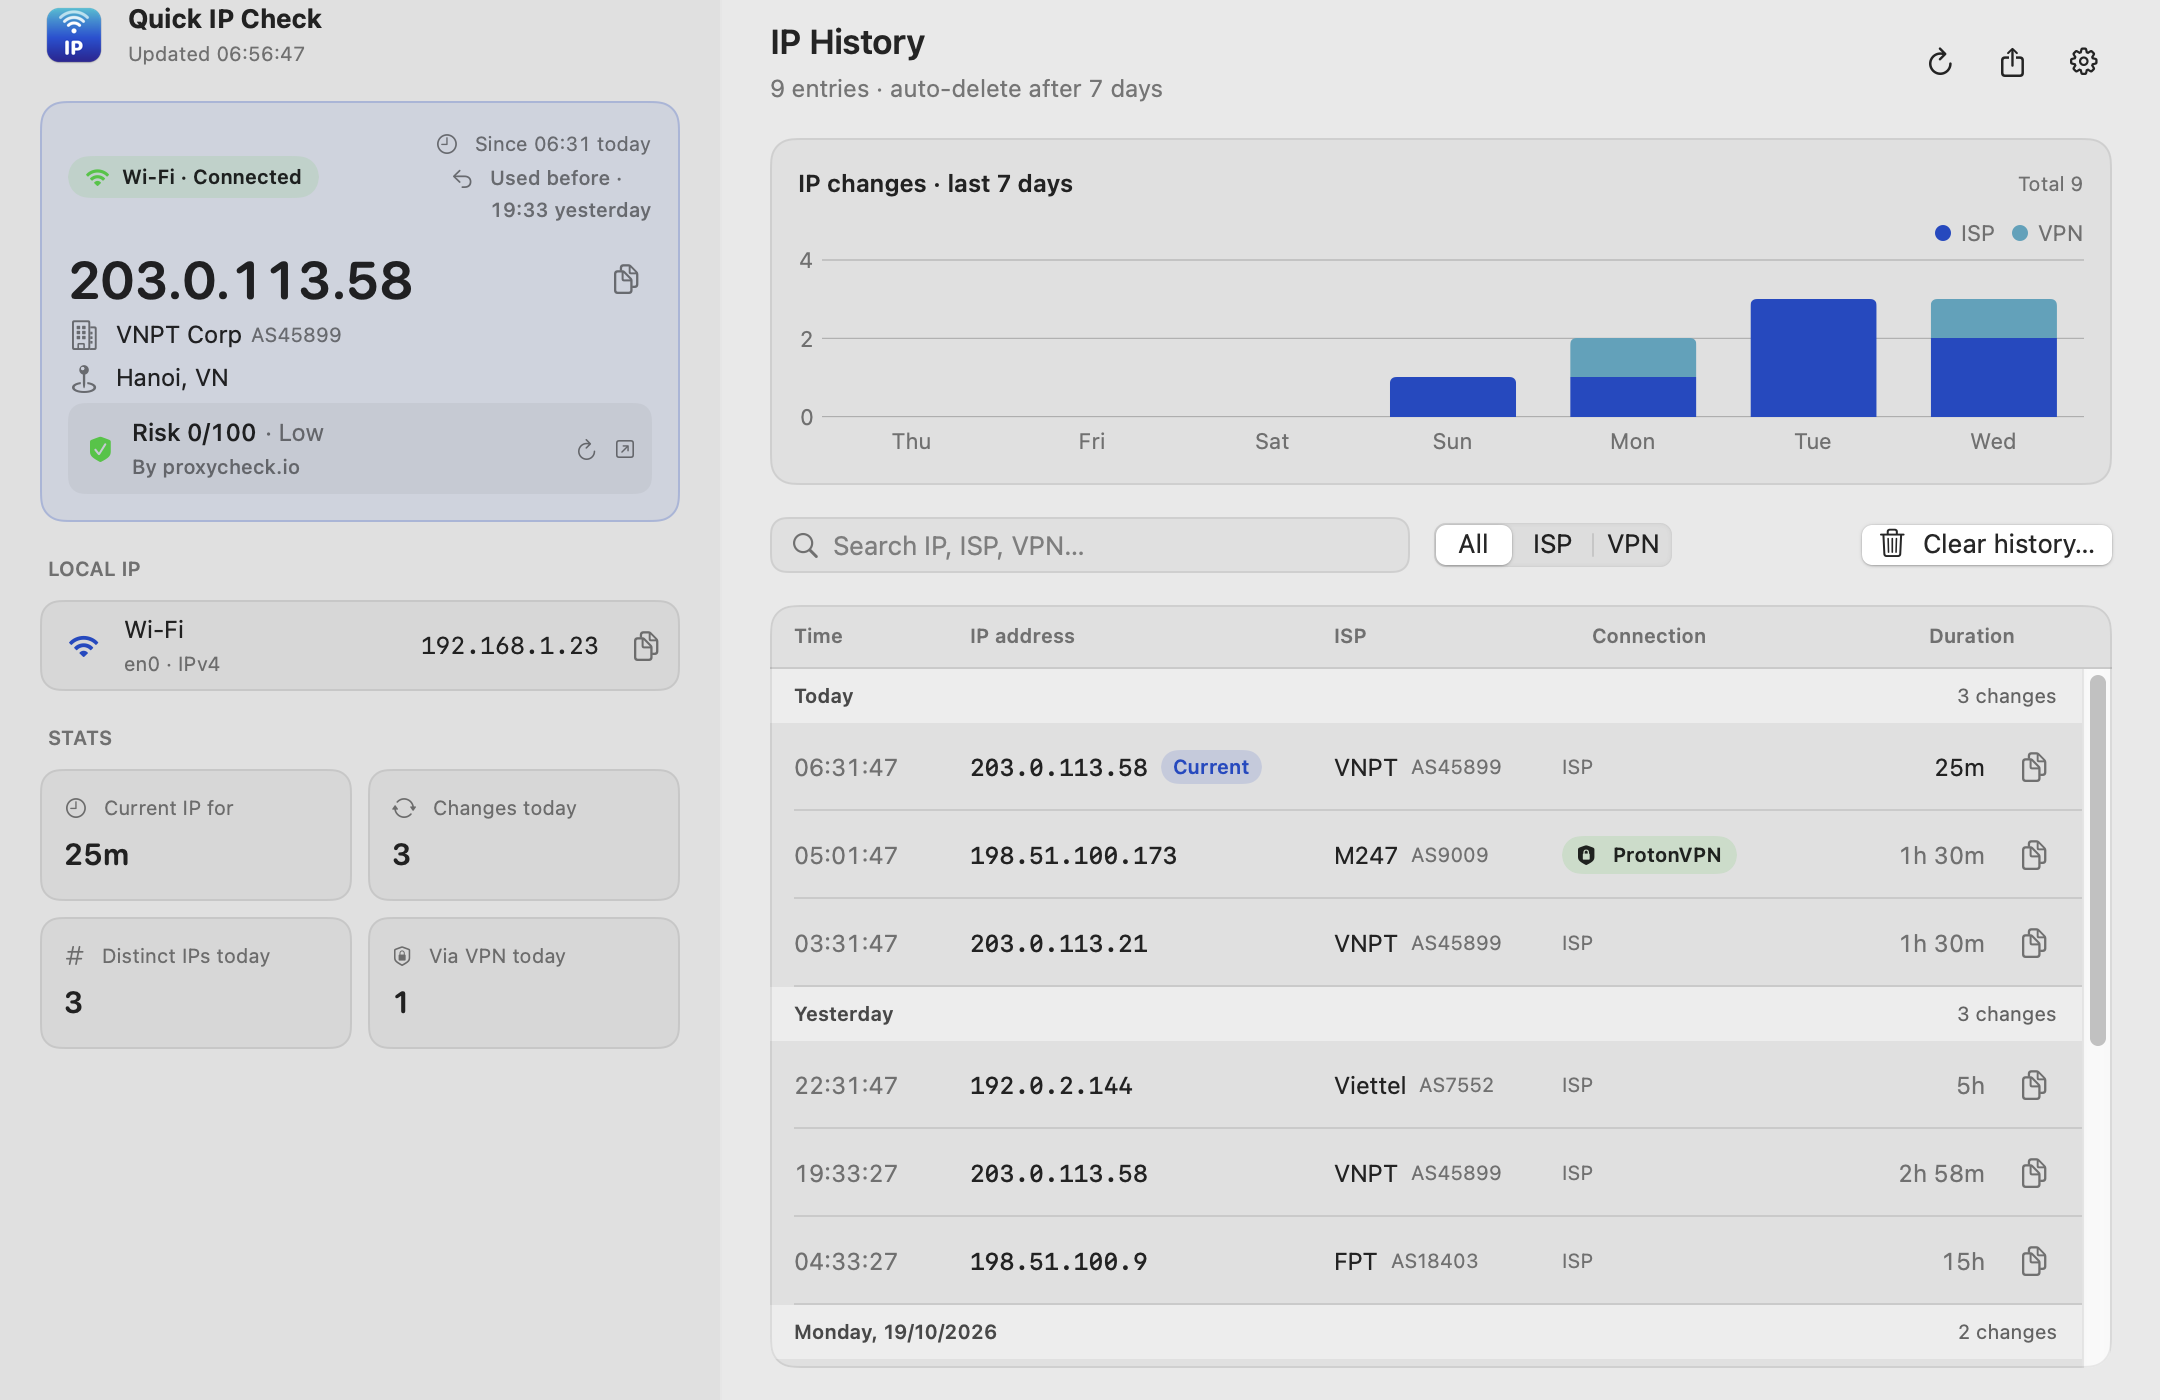
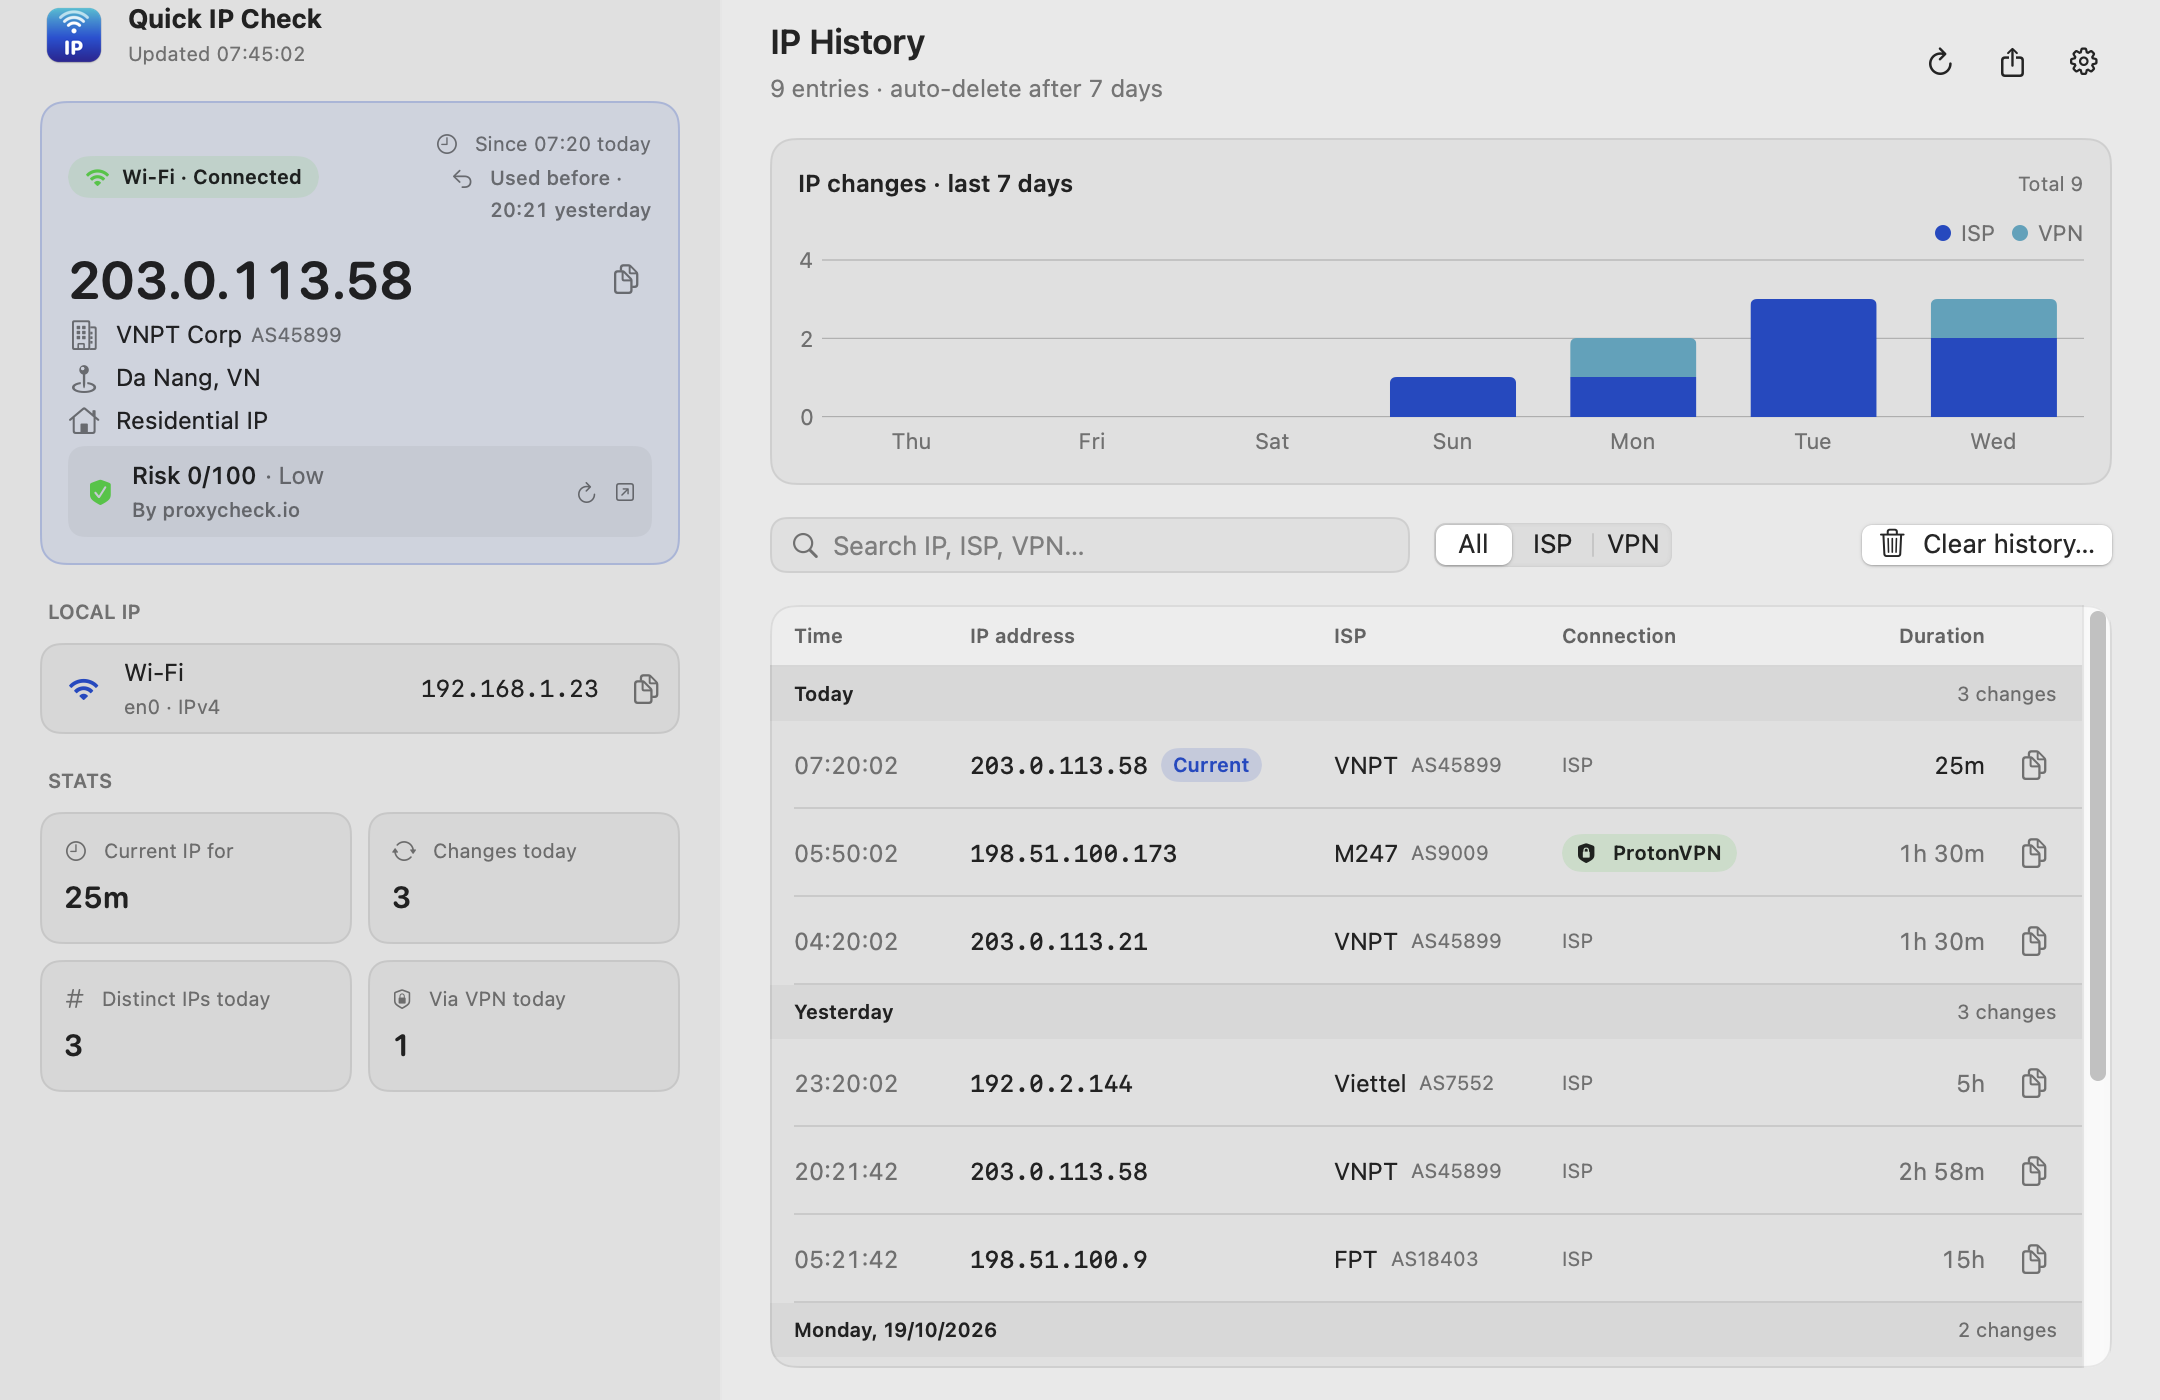
Quick IP Check 2.1.1

diff --git a/README.md b/README.md
@@ -26,7 +26,7 @@
 
 ### Features
 
-- **Menu bar at a glance** — shows `ISP · IP`, e.g. `VNPT · 203.0.113.58`. Make it shorter if you like: the IP in full, as `203…58`, `113.58` or just `58`, and the ISP by name or initials. Hover to see the full IP.
+- **Menu bar at a glance** — shows `ISP · IP`, e.g. `VNPT · 203.0.113.58`. Make it shorter if you like: the IP in full, as `203…58`, `113.58` or just `58`, and the ISP by name or initials, or the IP's location instead. Hover to see the full IP.
 - **Main window** — open it like a regular app: the overview, today's stats, a 7-day chart of IP changes, and a searchable history table side by side.
 - **Instant re-check** — notices when the network drops and comes back and checks right away; otherwise every 3 minutes (adjustable). Pauses while the Mac sleeps or the screen is locked.
 - **Connection type** — "Wi-Fi · Connected", "Ethernet · Connected"…
@@ -34,6 +34,7 @@
 - **IP history** — recorded only when your IP changes, with how long each IP was used and whether it came through a VPN. Auto-cleanup after 6 hours to 1 month, optional entry limit, CSV export.
 - **Returning IP** — tells you when you get an IP you used before (A → B → C → A).
 - **Change popup** — a small notification when your IP changes, for 1–5 seconds, top left / center / right.
+- **IP type** — residential, mobile, data center, VPN or Tor.
 - **IP reputation** — risk score from proxycheck.io, fFraud, ip-api.com or StopForumSpam (no key needed), or AbuseIPDB and IPQualityScore (free API key).
 - **Local IPs** — IPv4 / IPv6 per network interface.
 - **One-click updates** — downloads, verifies and installs new versions when you agree.
@@ -68,10 +69,6 @@ You only need to do this once.
 - **Right click**: refresh, copy IP, main window, settings, quit.
 - Shortcuts: `⌘R` refresh · `⌘O` main window · `⌘1` / `⌘2` switch tabs · `⌘,` settings.
 
-### Default settings
-
-Open at login · system language · check every 3 minutes, paused while asleep or locked · full IP with the ISP's main name, no logo · local IPv4 only · 2-second popup at the top center, with returning-IP notes · VPN IP only in the menu bar, VPN and Tailscale detection on · reputation by proxycheck.io, source shown · history kept 7 days, no entry limit · automatic update checks.
-
 ### Privacy
 
 Quick IP Check has no account, no analytics and no server of its own. To do its job it contacts:
@@ -81,6 +78,7 @@ Quick IP Check has no account, no analytics and no server of its own. To do its 
 | Find your public IP | api.ipify.org (fallback: icanhazip.com, checkip.amazonaws.com) | a plain request |
 | ISP and location | ipinfo.io | your public IP |
 | Reputation score (optional) | the service you choose | your public IP, only when it changes |
+| IP type (optional) | ip-api.com, fFraud, proxycheck.io | your public IP, once per new IP |
 | Updates (optional) | api.github.com, github.com | a plain request, once a day; the new version when you choose to update |
 
 VPN detection runs entirely on your Mac. History and settings stay on your Mac (`~/Library/Application Support/IPCheck/`). API keys are stored in the macOS Keychain.
@@ -101,7 +99,7 @@ Contact: [contact@lelong.dev](mailto:contact@lelong.dev)
 
 ### Tính năng
 
-- **Xem nhanh trên thanh menu**: hiện `Nhà mạng · IP`, ví dụ `VNPT · 203.0.113.58`. Có thể rút gọn: IP đầy đủ, dạng `203…58`, `113.58` hoặc chỉ `58`; tên nhà mạng đầy đủ hoặc viết tắt. Rê chuột để xem IP đầy đủ.
+- **Xem nhanh trên thanh menu**: hiện `Nhà mạng · IP`, ví dụ `VNPT · 203.0.113.58`. Có thể rút gọn: IP đầy đủ, dạng `203…58`, `113.58` hoặc chỉ `58`; tên nhà mạng đầy đủ hoặc viết tắt, hoặc hiện vị trí của IP thay cho nhà mạng. Rê chuột để xem IP đầy đủ.
 - **Cửa sổ chính**: mở như một ứng dụng bình thường, gồm tổng quan, thống kê trong ngày, biểu đồ số lần đổi IP 7 ngày và bảng lịch sử có tìm kiếm.
 - **Kiểm tra lại ngay**: phát hiện khi mất mạng rồi có mạng lại và kiểm tra ngay; ngoài ra kiểm tra định kỳ 3 phút một lần (có thể chỉnh). Tạm dừng khi Mac ngủ hoặc khóa màn hình.
 - **Loại kết nối**: "Wi-Fi · Đã kết nối", "Ethernet · Đã kết nối"…
@@ -109,6 +107,7 @@ Contact: [contact@lelong.dev](mailto:contact@lelong.dev)
 - **Lịch sử IP**: chỉ ghi khi IP thay đổi, kèm thời gian sử dụng từng IP và có đi qua VPN hay không. Tự xóa sau 6 giờ đến 1 tháng, có thể giới hạn số bản ghi, xuất ra CSV.
 - **IP quay lại**: báo khi bạn nhận lại một IP đã từng dùng (A → B → C → A).
 - **Popup khi đổi IP**: thông báo nhỏ hiện 1–5 giây, ở góc trên bên trái, giữa hoặc bên phải.
+- **Loại IP**: dân dụng, di động, trung tâm dữ liệu, VPN hay Tor.
 - **Độ tin cậy IP**: điểm rủi ro từ proxycheck.io, fFraud, ip-api.com hoặc StopForumSpam (không cần key), hoặc AbuseIPDB và IPQualityScore (API key miễn phí).
 - **IP nội bộ**: IPv4 / IPv6 theo từng cổng mạng.
 - **Cập nhật một chạm**: khi bạn đồng ý, app tự tải, kiểm tra và cài bản mới.
@@ -140,10 +139,6 @@ Chỉ cần làm một lần.
 - **Nhấn chuột phải**: làm mới, sao chép IP, cửa sổ chính, cài đặt, thoát.
 - Phím tắt: `⌘R` làm mới · `⌘O` cửa sổ chính · `⌘1` / `⌘2` chuyển tab · `⌘,` cài đặt.
 
-### Cài đặt mặc định
-
-Chạy cùng macOS · ngôn ngữ theo hệ thống · kiểm tra mỗi 3 phút, tạm dừng khi Mac ngủ hoặc khóa màn hình · hiện IP đầy đủ kèm tên chính của nhà mạng, ẩn logo · chỉ hiện IPv4 nội bộ · popup 2 giây ở giữa phía trên, có báo IP đã từng dùng · khi dùng VPN chỉ hiện IP VPN, bật nhận biết nhà cung cấp VPN và Tailscale · chấm điểm bằng proxycheck.io, có hiện nơi chấm điểm · lưu lịch sử 7 ngày, không giới hạn số bản ghi · tự kiểm tra cập nhật.
-
 ### Quyền riêng tư
 
 Quick IP Check không cần tài khoản, không thu thập thống kê và không có máy chủ riêng. App chỉ kết nối tới:
@@ -153,6 +148,7 @@ Quick IP Check không cần tài khoản, không thu thập thống kê và khô
 | Lấy IP công khai | api.ipify.org (dự phòng: icanhazip.com, checkip.amazonaws.com) | yêu cầu thông thường |
 | Nhà mạng và vị trí | ipinfo.io | IP công khai của bạn |
 | Điểm tin cậy (tùy chọn) | dịch vụ bạn chọn | IP công khai, chỉ khi IP thay đổi |
+| Loại IP (tùy chọn) | ip-api.com, fFraud, proxycheck.io | IP công khai, một lần cho mỗi IP mới |
 | Cập nhật (tùy chọn) | api.github.com, github.com | yêu cầu thông thường, mỗi ngày một lần; tải bản mới khi bạn đồng ý cập nhật |
 
 Việc nhận biết VPN diễn ra hoàn toàn trên máy bạn. Lịch sử và cài đặt chỉ lưu trên máy bạn (`~/Library/Application Support/IPCheck/`). API key được lưu trong Keychain của macOS.

diff --git a/CHANGELOG.md b/CHANGELOG.md
@@ -1,5 +1,12 @@
 # Changelog
 
+## 2.1.1 — 2026-10-21
+
+- Shows the IP type: residential, business, mobile, data center, VPN or Tor (combined from ip-api.com, fFraud and proxycheck.io; Settings → Reputation).
+- Option to show the IP's location (city and country code, or country name) instead of the ISP name in the menu bar (Settings → Display, off by default).
+- Local IPs name Tailscale as "Tailscale"; "VPN" is used only for a VPN that carries Internet traffic, other tunnels show as "Tunnel". The status label only says VPN when Internet actually goes through one.
+- Fixed the history table's column titles not lining up with the rows in the main window.
+
 ## 2.1 — 2026-10-21
 
 - Main window: open Quick IP Check like a regular app ("Open Window" in the menu bar panel, or the right-click menu), with the overview, today's stats, a 7-day chart of IP changes, and a searchable, filterable history table side by side. While it's open the app appears in the Dock.
